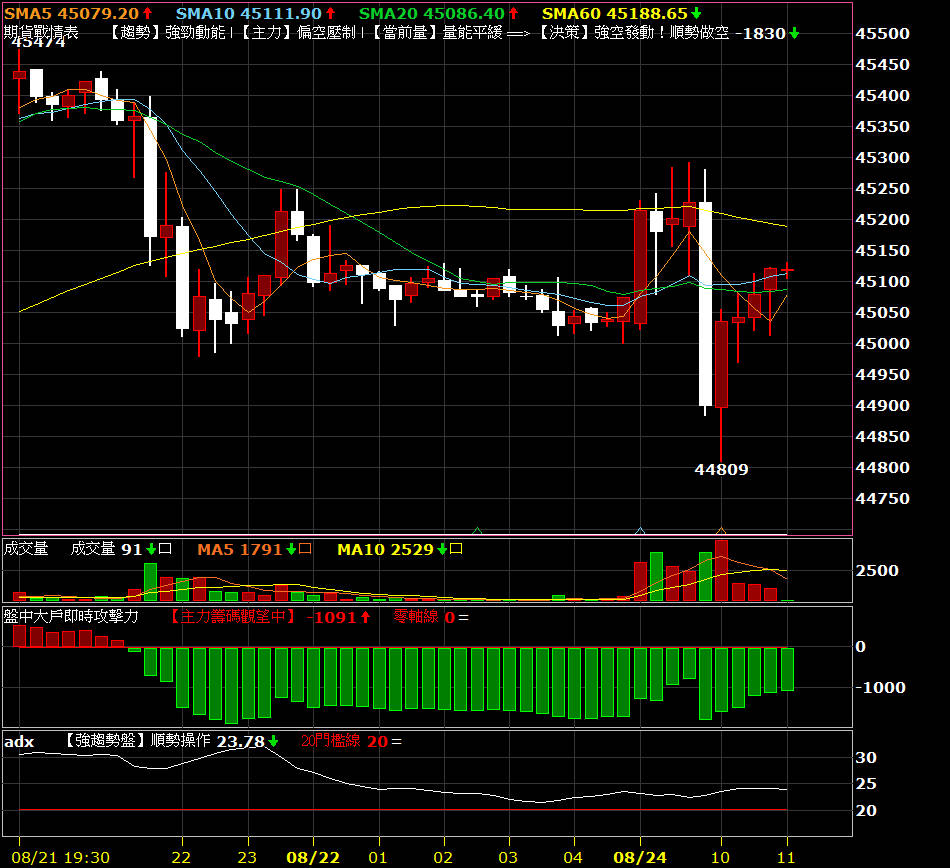
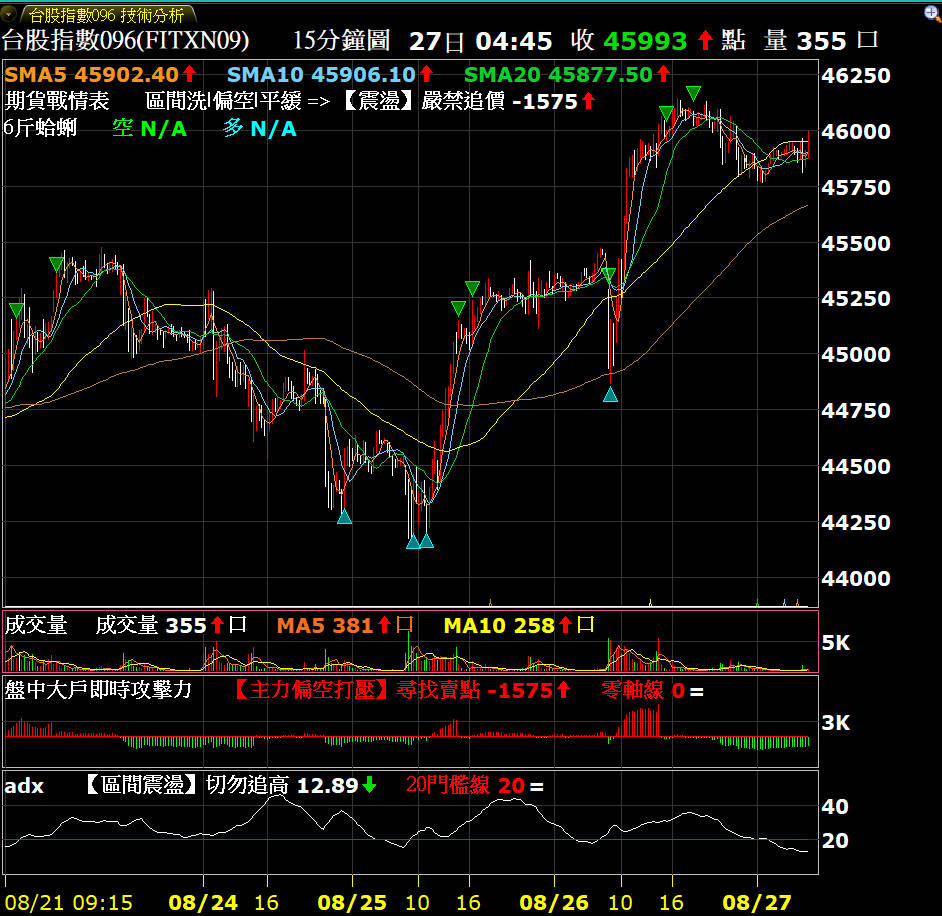
Update 台指期看盤介面 docs and demo to V1.2 精簡大字版.
Replace screenshot; point 內含檔案／安裝方式／FAQ to V1.2 as latest.

Changed region(s): [[0.0, 0.0, 1.0, 1.0]]

diff --git a/XQ-Scripts/台指期看盤介面/README.md b/XQ-Scripts/台指期看盤介面/README.md
@@ -7,23 +7,24 @@
 台指期分 K「看盤介面」三件套：主圖戰情＋大戶攻擊力＋ADX。建議在15分K週期使用。
 
 > [!NOTE]
-> **主圖戰情表已更新 v1.1**（2026-08-24）：移除掛單欄位，改為 **趨勢／主力／量能 → 決策**；標題縮短為「期貨戰情表」；末尾箭頭依做多／放空方向顯示。請優先下載 **`期貨戰情表_v1.1_推薦碼GB.xsb`**。
+> **主圖戰情表已更新 V1.2 精簡大字版**（2026-08-27）：版面精簡、字體加大，左上角戰情文字更易讀；邏輯與 v1.1 相同（**趨勢／主力／量能 → 決策**）。請優先下載 **`期貨戰情表V1.2精簡大字版.xsb`**。
 
-![台指期看盤介面示意](./txo_battle_overview_demo_v2.png)
+![台指期看盤介面示意（V1.2 精簡大字版）](./txo_battle_overview_demo_v2.png)
 
 ## 內含檔案
 
 | 檔案 | 用途 |
 |------|------|
-| **`期貨戰情表_v1.1_推薦碼GB.xsb`** | **（最新）** 主圖戰情：趨勢／主力／量能 → 決策 |
+| **`期貨戰情表V1.2精簡大字版.xsb`** | **（最新）** 主圖戰情：精簡大字版，趨勢／主力／量能 → 決策 |
+| `期貨戰情表_v1.1_推薦碼GB.xsb` | 舊版（v1.1 標準字體；仍保留供參考） |
 | `期貨戰情表_v1.0_推薦碼GB.xsb` | 舊版（含掛單欄位；仍保留供參考） |
 | `盤中大戶即時攻擊力_v1.0_推薦碼GB.xsb` | 副圖：內外盤淨攻擊力 |
 | `自訂_ADX_v1.0_推薦碼GB.xsb` | 副圖：強趨勢 vs 區間震盪 |
-| `txo_battle_overview_demo_v2.png` | 同框示意圖 |
+| `txo_battle_overview_demo_v2.png` | 同框示意圖（V1.2 精簡大字版） |
 
 ## 安裝方式
 
-1. 下載 **v1.1 主圖** 與兩個副圖 `.xsb`（共三個）
+1. 下載 **V1.2 精簡大字版主圖** 與兩個副圖 `.xsb`（共三個）
 2. XQ → XScript 編輯器 → **匯入**
 3. 開台指期分 K：主圖掛「期貨戰情表」，副圖掛「大戶攻擊力」與「ADX」
 4. **ADX 顯示柱圖步驟**：右鍵設定 → 副圖設定 → `自訂_ADX_v1.0` → 繪圖樣式 → Plot1 型式 → **柱圖** → 樣式 → **正負**
@@ -46,7 +47,9 @@
 
 ### Q: 主圖上方沒有顯示「戰情總覽」文字？
 
-如果將指標套用至主圖後，左上角完全沒有出現戰情總覽文字，通常是 **XQ 的主圖指標字體設定過大** 導致版面無法完整繪製。
+**請優先改用 V1.2 精簡大字版**（`期貨戰情表V1.2精簡大字版.xsb`），版面已針對主圖字體空間優化。
+
+若仍無法顯示，通常是 **XQ 的主圖指標字體設定過大** 導致版面無法完整繪製。
 
 **解決步驟：**
 

diff --git a/XQ-Scripts/README.md b/XQ-Scripts/README.md
@@ -94,7 +94,7 @@
 
 ### [台指期看盤介面](台指期看盤介面/)
 
-台指期分 K 看盤介面三件套（**期貨戰情表 v1.1**、盤中大戶即時攻擊力、自訂_ADX）。建議在15分K週期使用。v1.1 已移除掛單欄位，改為趨勢／主力／量能 → 決策。
+台指期分 K 看盤介面三件套（**期貨戰情表 V1.2 精簡大字版**、盤中大戶即時攻擊力、自訂_ADX）。建議在15分K週期使用。V1.2 版面精簡、字體加大，邏輯同 v1.1（趨勢／主力／量能 → 決策）。
 
 ### [VCP 波動收縮選股 v1.0](VCP波動收縮選股_v1.0/)
 
